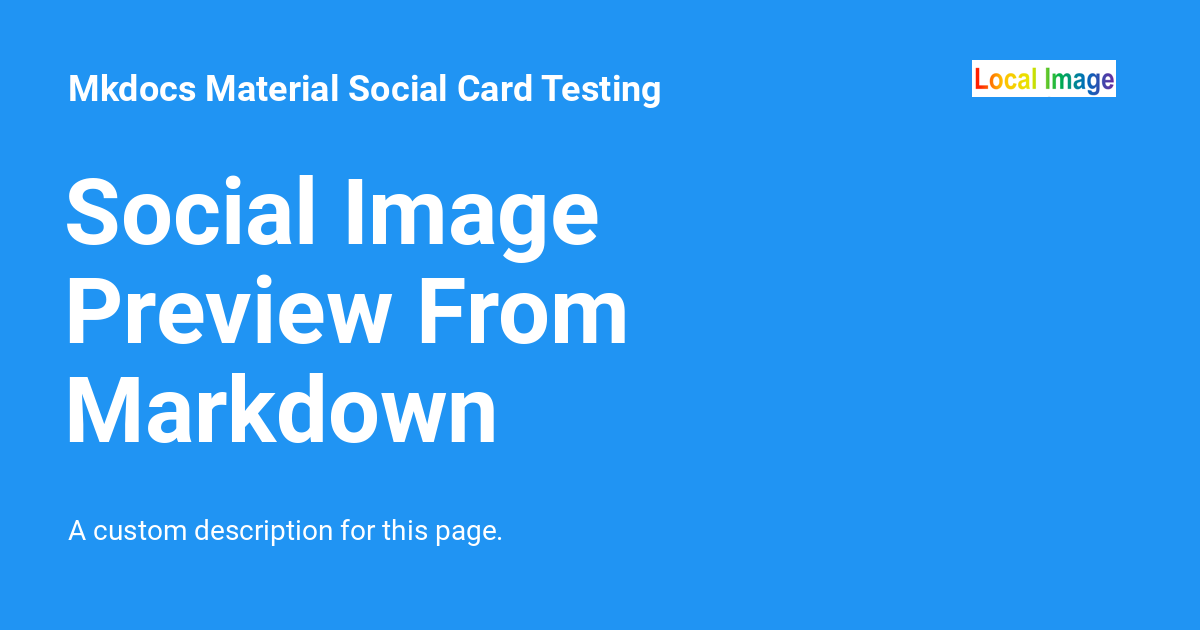
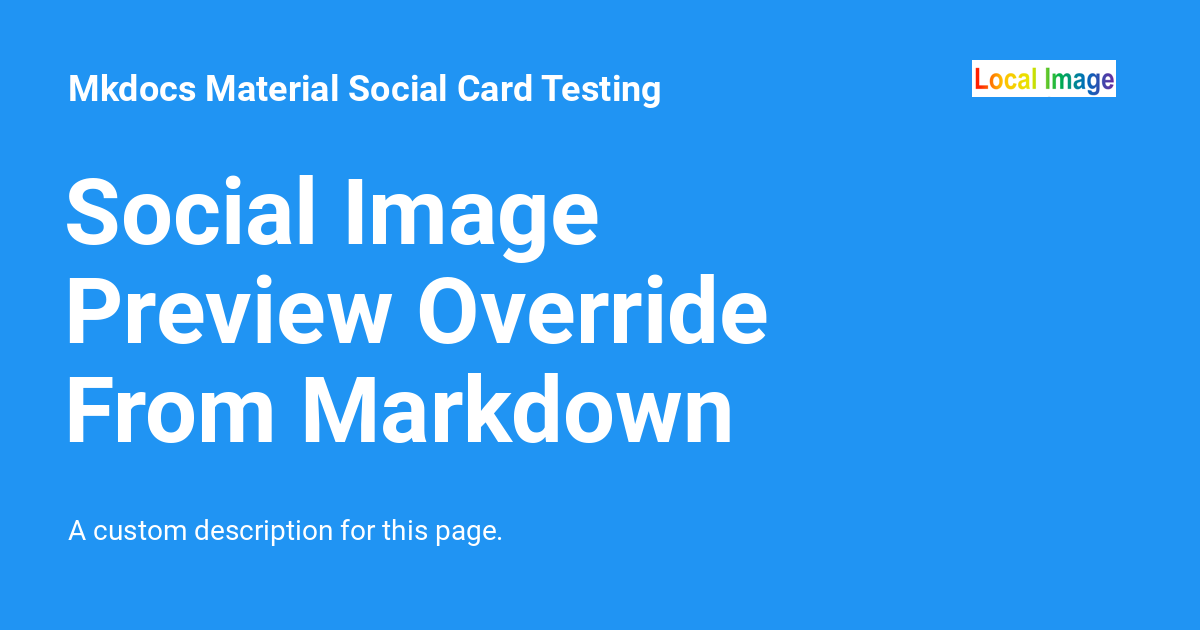
Deployed 9c8fc39 with MkDocs version: 1.6.1

Changed region(s): [[0.0617, 0.573, 0.6167, 0.7238], [0.3392, 0.4222, 0.6475, 0.5429]]

diff --git a/metadata-override-test/index.html b/metadata-override-test/index.html
@@ -26,7 +26,7 @@
     
     
       
-        <title>Social Image Preview From Markdown Metadata - Mkdocs Material Social Card Testing</title>
+        <title>Social Image Preview Override From Markdown Metadata V5 - Mkdocs Material Social Card Testing</title>
       
     
     
@@ -73,7 +73,7 @@
       
         <meta  property="og:type"  content="website" >
       
-        <meta  property="og:title"  content="Social Image Preview From Markdown Metadata - Mkdocs Material Social Card Testing" >
+        <meta  property="og:title"  content="Social Image Preview Override From Markdown Metadata V5 - Mkdocs Material Social Card Testing" >
       
         <meta  property="og:description"  content="A custom description for this page." >
       
@@ -89,7 +89,7 @@
       
         <meta  name="twitter:card"  content="summary_large_image" >
       
-        <meta  name="twitter:title"  content="Social Image Preview From Markdown Metadata - Mkdocs Material Social Card Testing" >
+        <meta  name="twitter:title"  content="Social Image Preview Override From Markdown Metadata V5 - Mkdocs Material Social Card Testing" >
       
         <meta  name="twitter:description"  content="A custom description for this page." >
       
@@ -169,7 +169,7 @@
         <div class="md-header__topic" data-md-component="header-topic">
           <span class="md-ellipsis">
             
-              Social Image Preview From Markdown Metadata
+              Social Image Preview Override From Markdown Metadata V5
             
           </span>
         </div>
